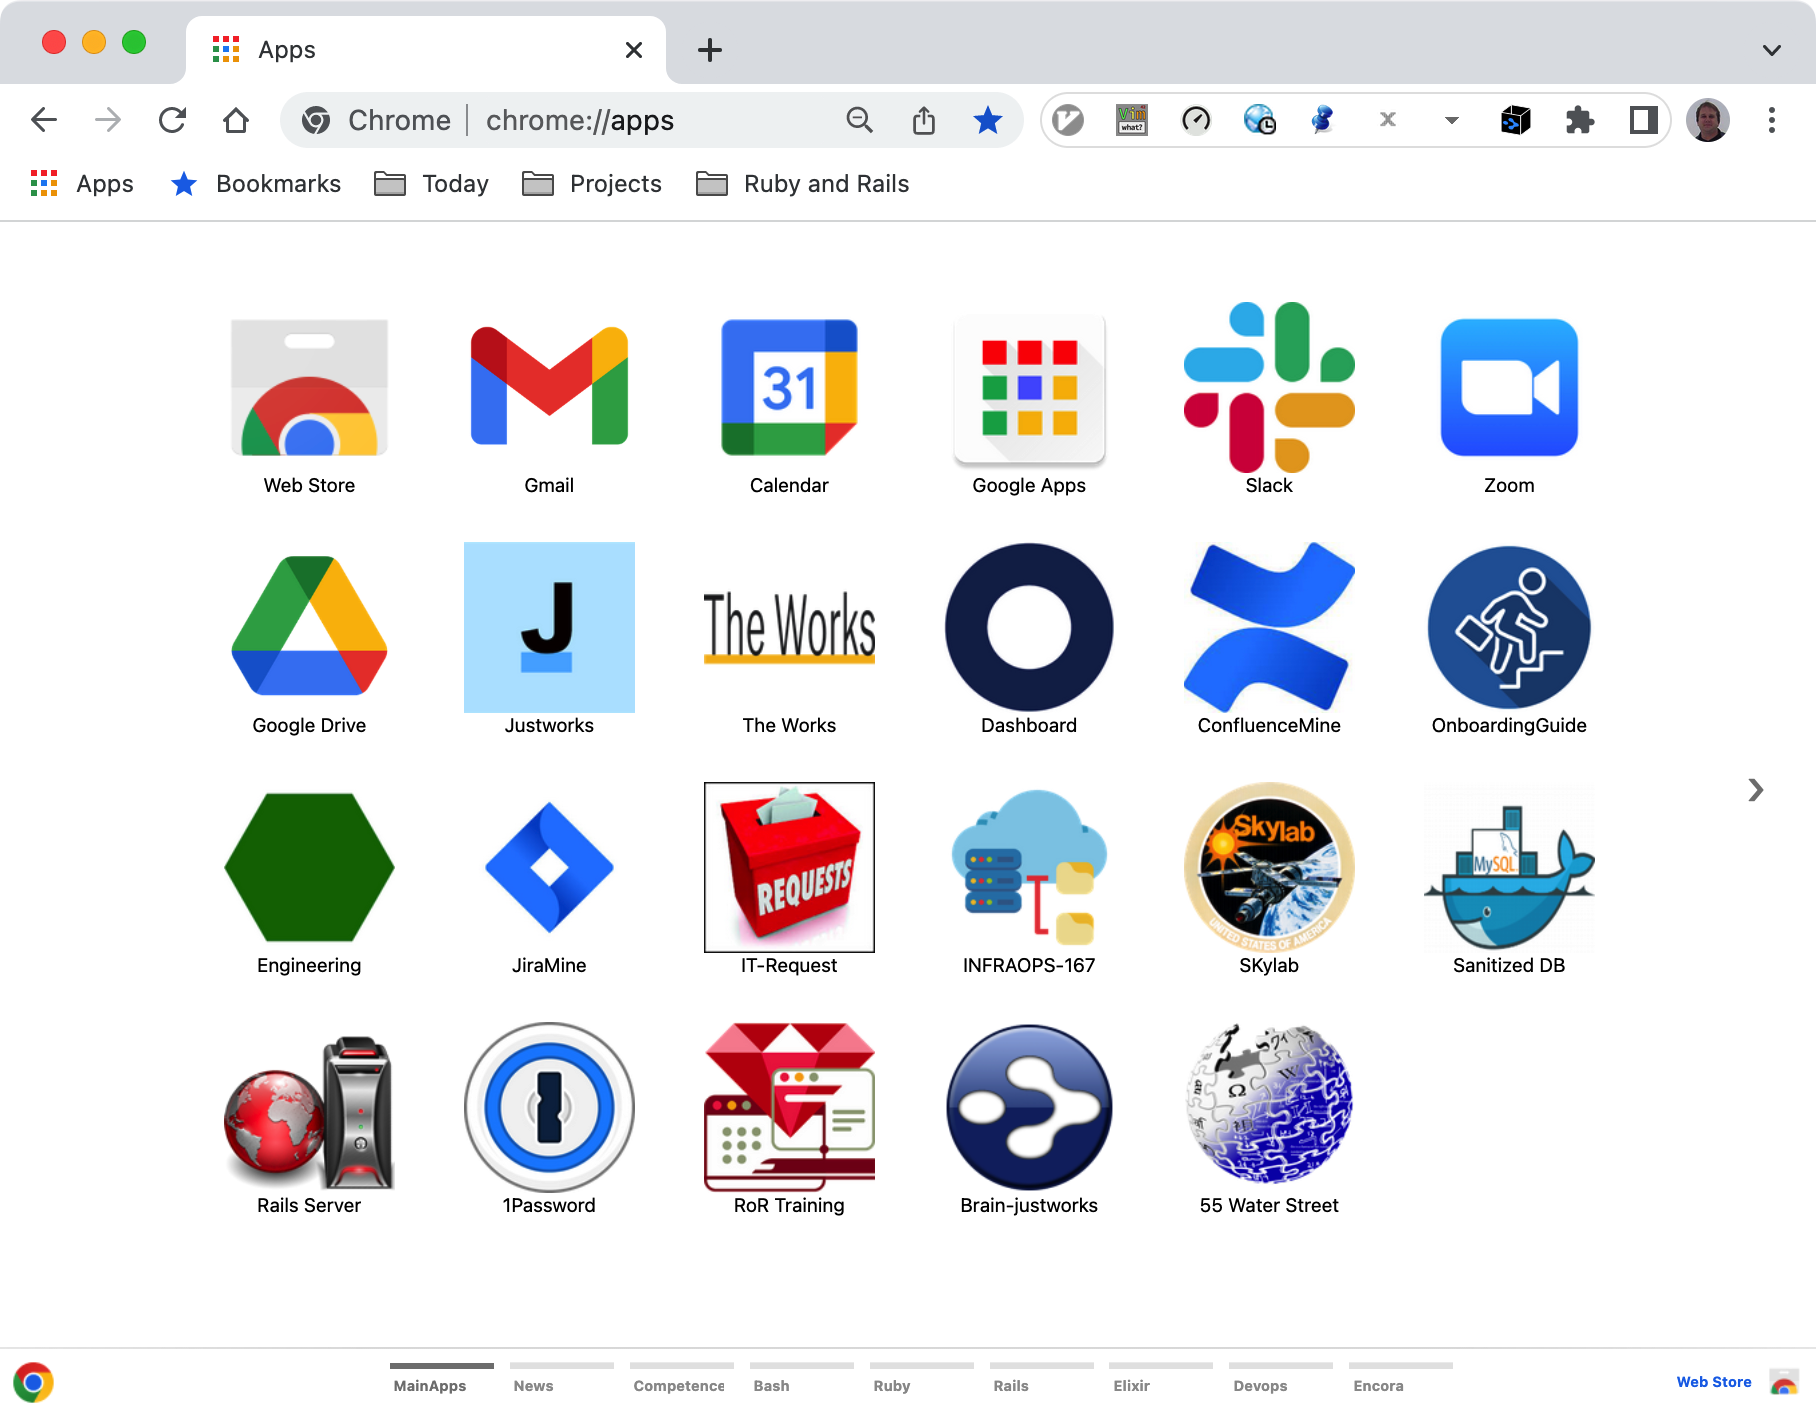
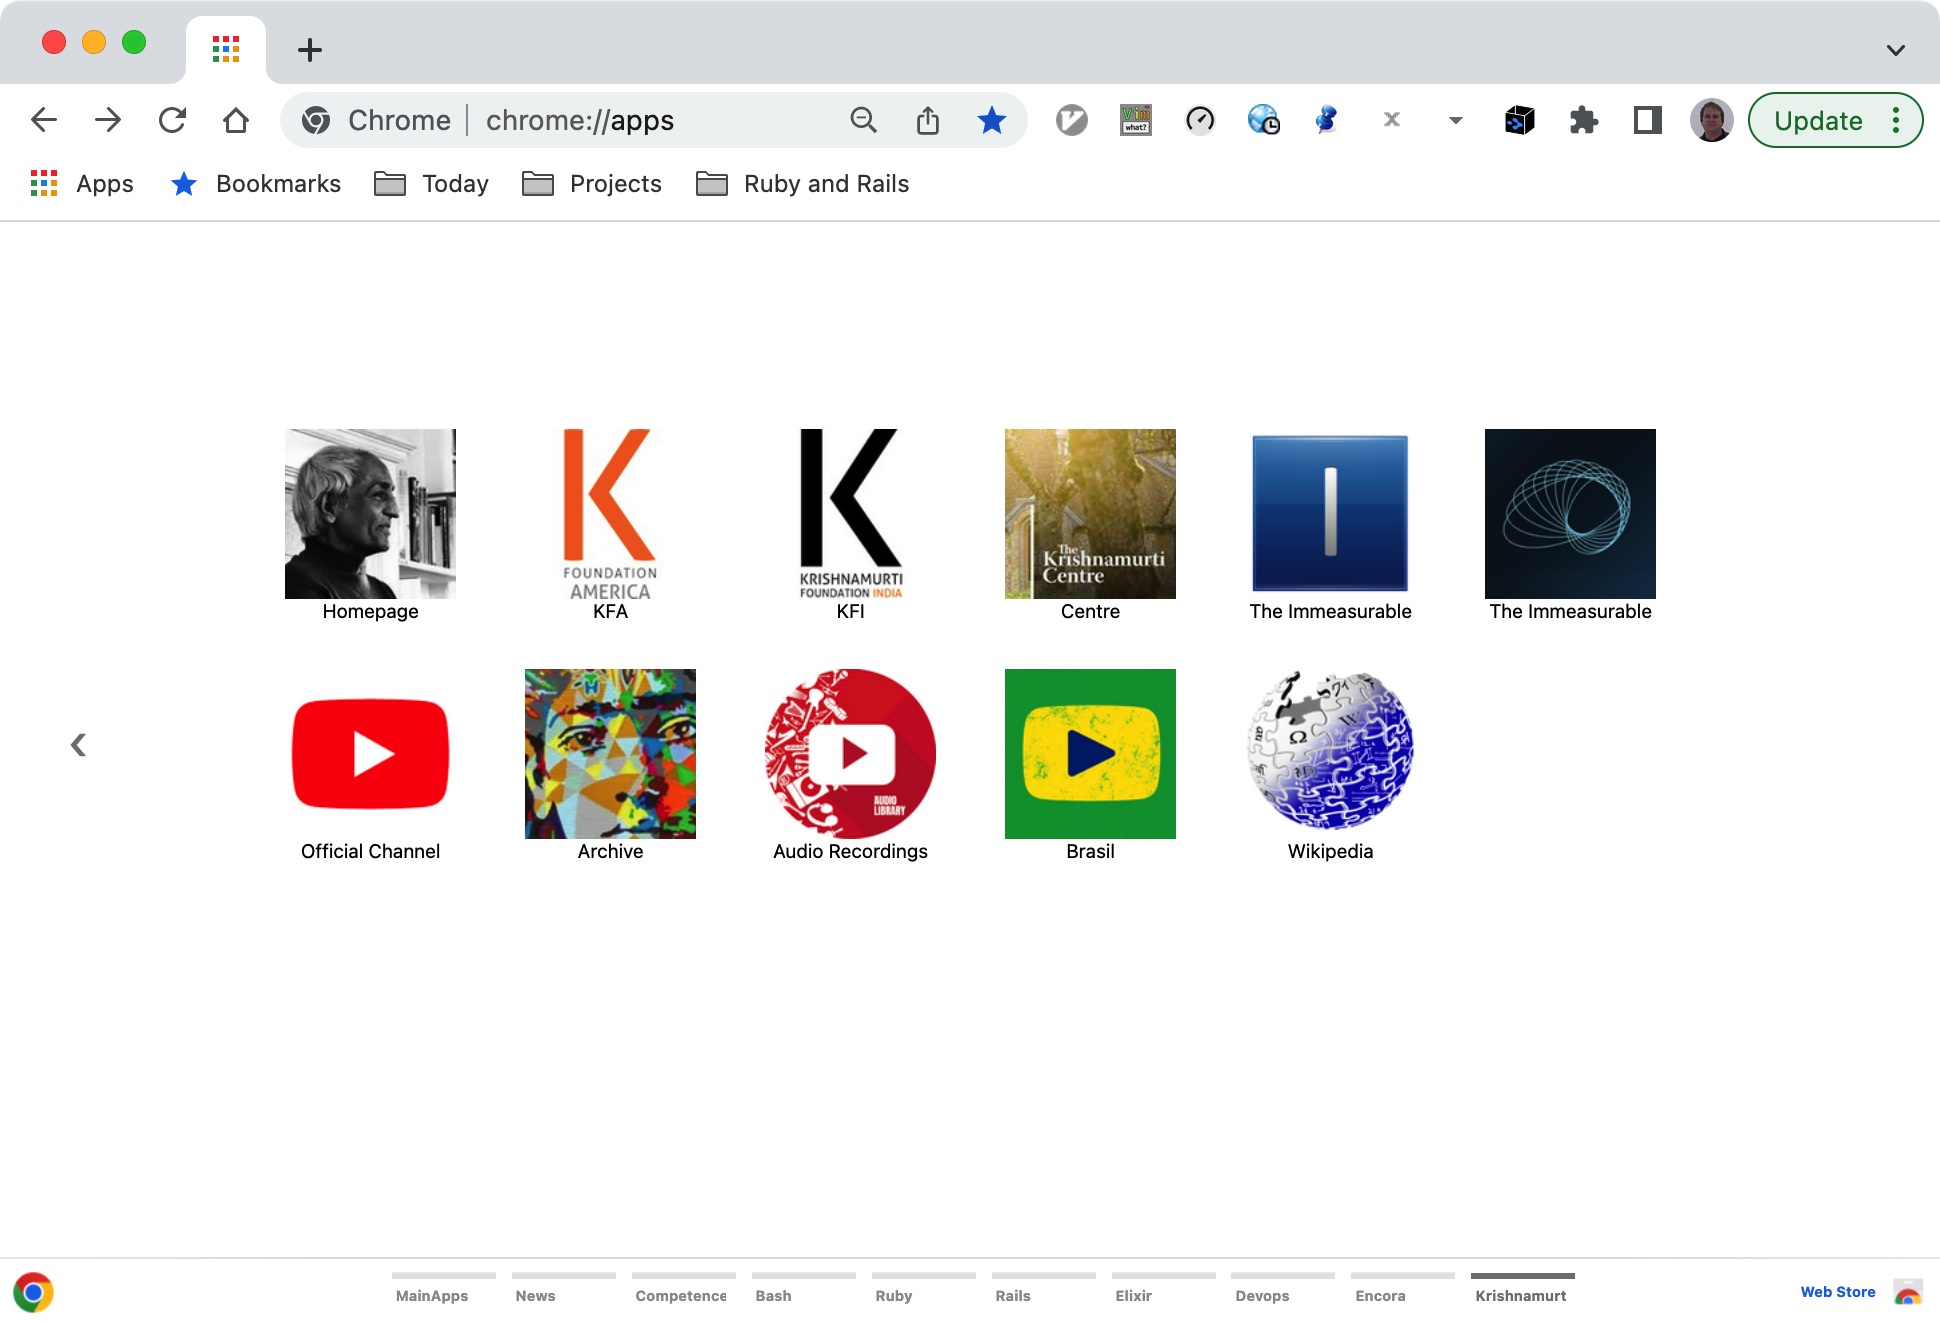
add-apps

diff --git a/README.md b/README.md
@@ -16,9 +16,32 @@ $ git clone https://github.com/enogrob/chromeapps-krishnamurti.git
 
 As we can see a subdirectory is created for each Krishnamurti app:
 
-$ ls -la
+$ ls -latotal 328
+drwxr-xr-x@  9 robertonogueira  staff   288 Jun 16 09:27 .
+drwxr-xr-x@ 39 robertonogueira  staff  1248 Jun 16 09:06 ..
+drwxr-xr-x  12 robertonogueira  staff   384 Jun 16 09:27 .git
+-rw-r--r--   1 robertonogueira  staff    13 May 26 13:45 .gitignore
+-rw-r--r--@  1 robertonogueira  staff     0 May 26 13:50 Icon?
+-rw-r--r--@  1 robertonogueira  staff  1368 Jun 16 11:41 README.md
+drwxr-xr-x  13 robertonogueira  staff   416 Jun 16 11:25 apps
+drwxr-xr-x   4 robertonogueira  staff   128 Jun 16 11:38 images
+drwxr-xr-x   4 robertonogueira  staff   128 Jun 16 10:20 resources
 
 $ tree -L 1 apps/
+apps
+|-- krishnamurti-Archive
+|-- krishnamurti-AudioRecordings
+|-- krishnamurti-Brasil
+|-- krishnamurti-Centre
+|-- krishnamurti-Homepage
+|-- krishnamurti-KFA
+|-- krishnamurti-KFI
+|-- krishnamurti-TheImmeasurable
+|-- krishnamurti-Wikipedia
+|-- krishnamurti-YouTube
+`-- krishnamurti-YouTubeTheImmeasurable
+
+11 directories, 0 files
 
 ### 2. Open Chrome with the following url:
 
